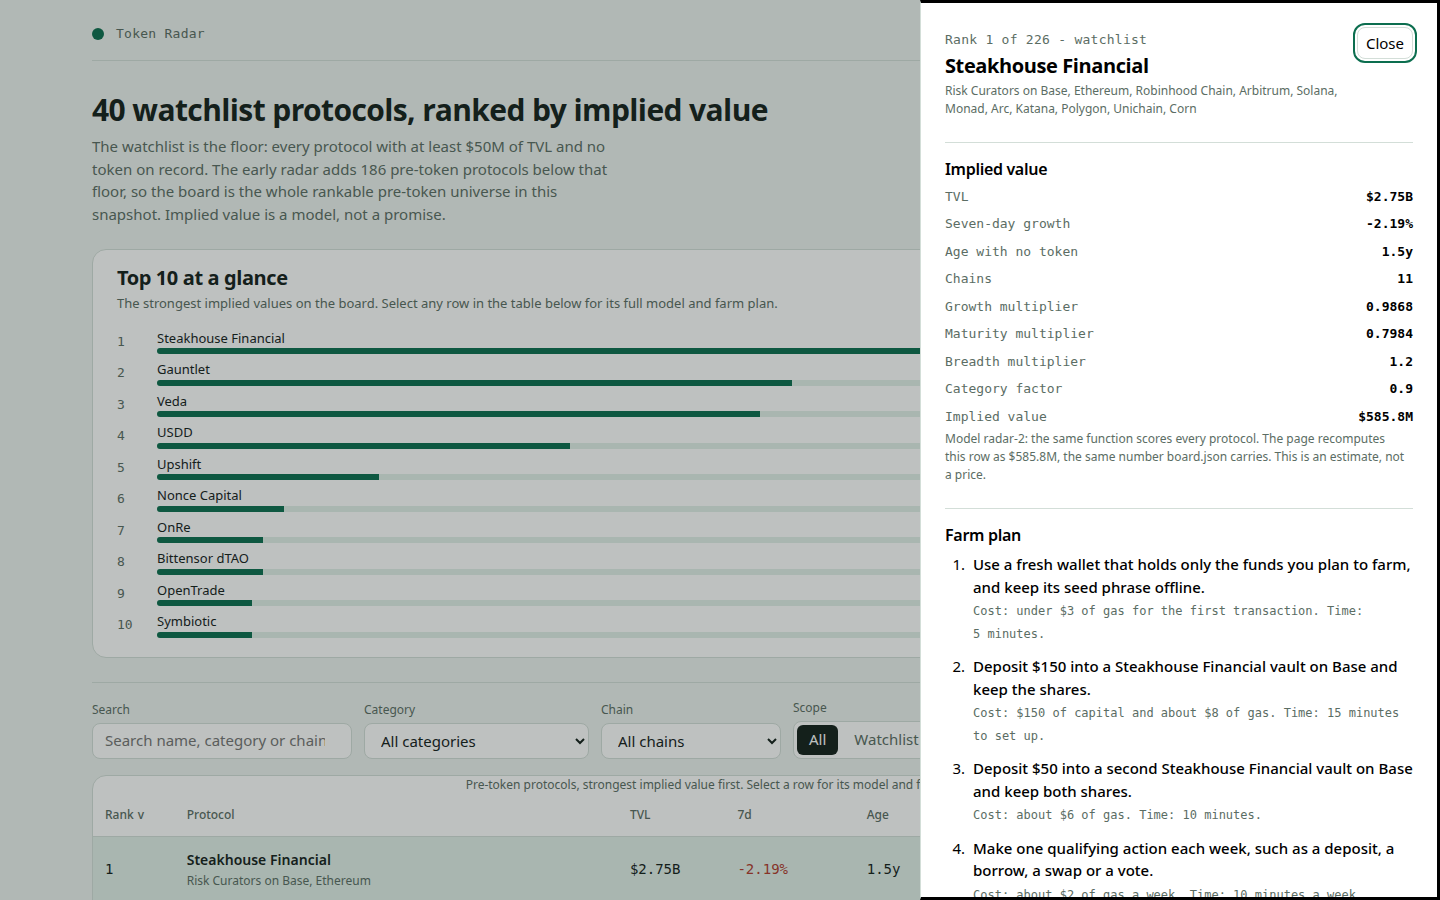
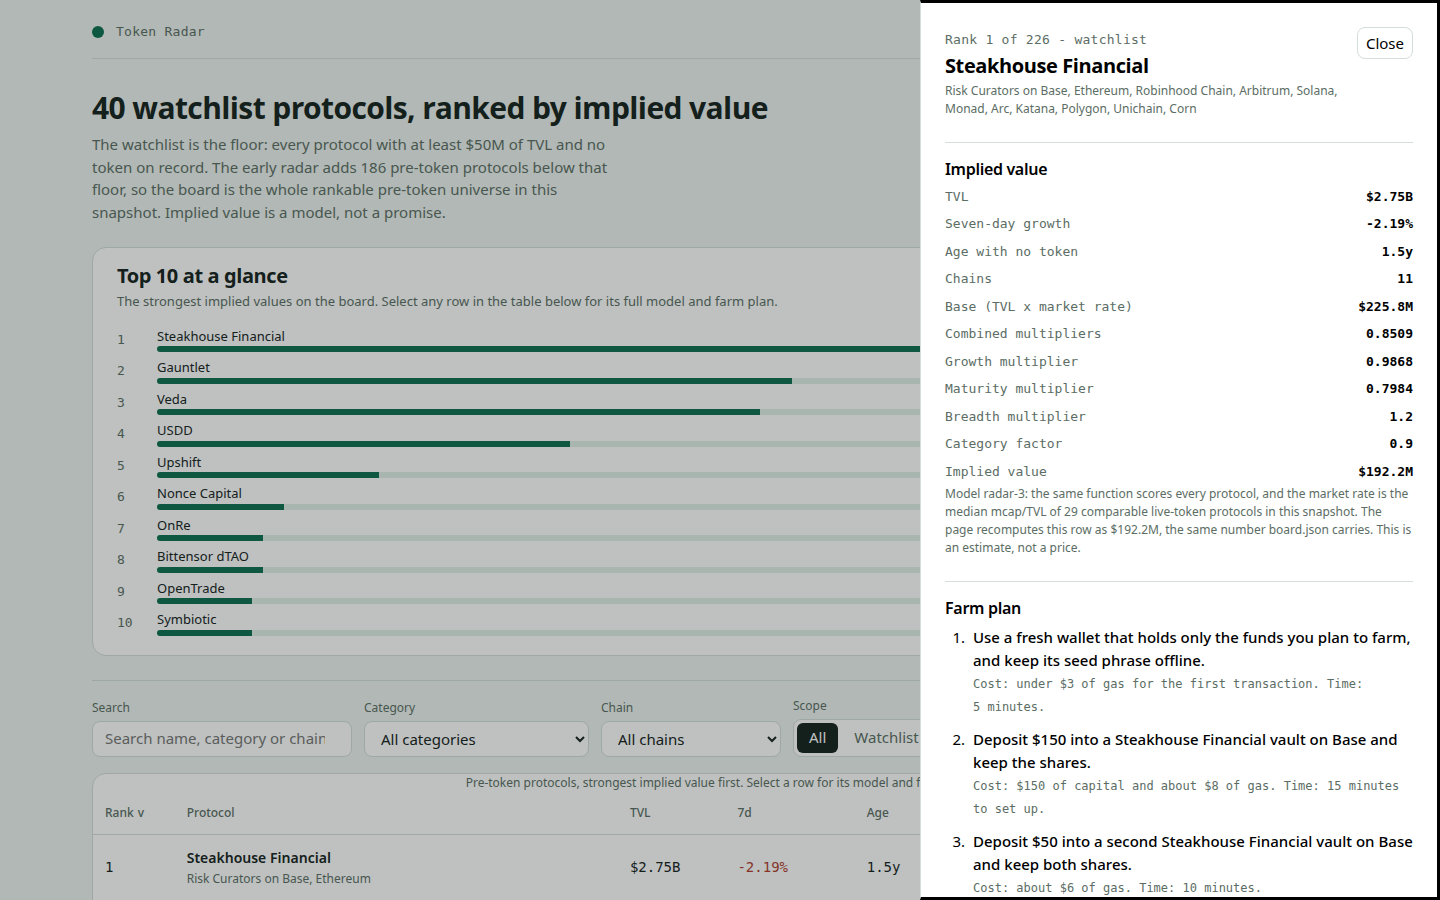
token-radar-01 v2: model radar-3, market-calibrated base multiple
The base multiple is no longer a judgement call: buildRadar calibrates it
at runtime as the median mcap/TVL of the 29 comparable live-token
protocols in the same snapshot (TVL at or above the floor, no exchange,
no versioned pool, no derivative product), 0.082 here. The rate scales
every row alike, so the rank order is unchanged from radar-2; only the
stated values are now priced at the market's own rate. The detail view
gains the base and combined-multiplier rows, and the model panel and
detail text name the calibration. Screenshots re-taken of the new page.

diff --git a/lib/model.ts b/lib/model.ts
@@ -9,7 +9,9 @@
 //
 // Implied value follows only from the snapshot's own figures:
 //
-//   base       = tvl_usd x BASE_MULTIPLE                         (0.25)
+//   base       = tvl_usd x MARKET_RATE, the median mcap/TVL of the
+//                comparable live-token protocols in this same snapshot
+//                (see calibrateBaseMultiple; 0.082 here, 0.25 fallback)
 //   growth     = clamp(change_7d, -50, 100) per cent
 //   growthMult = 1 + (growth / 100) x GROWTH_WEIGHT            (0.60)
 //   maturity   = 0.60 + min(age_days, 1095) / 1095 x 0.40
@@ -25,6 +27,18 @@
 //   days is momentum, clamped so one wild week (the snapshot has a +4,448%
 //   outlier) cannot decide a rank. Age with no token is patience: a protocol
 //   that has run for years with no token has a longer record to price.
+// - The market rate is not a judgement call: it is the median market cap
+//   per dollar of TVL among the live-token protocols in this same snapshot
+//   that sit in the watchlist's size class (TVL at or above the floor) and
+//   would have been rankable had they no token (no exchange, no versioned
+//   pool, no derivative product). In this snapshot 29 such protocols trade
+//   at a median of $0.082 of market cap per $1 of TVL, so a pre-token
+//   protocol of the same size is priced at that rate — the market's own
+//   rate, not launch hype. The median is steady across the exclusion
+//   variants (0.082 whether versioned pools and derivative products are
+//   excluded or not), and no rank depends on the rate: it scales every
+//   row alike, so the ranking is decided by growth, age, breadth and
+//   category alone.
 // - Breadth counts chains: a protocol live on several chains has more
 //   surface than a single-chain one, capped so breadth never dominates.
 // - Category factor is a launch-plausibility discount, read from the
@@ -58,7 +72,9 @@ export interface Snapshot {
   watchlist: string[];
 }
 
-/** The model's constants, as the dashboard states them and the sandbox may change them. */
+/** The model's constants, as the dashboard states them and the sandbox may change them.
+ *  base_multiple is the fallback rate: buildRadar replaces it with the calibrated
+ *  market rate from the snapshot itself (see calibrateBaseMultiple). */
 export interface ModelConstants {
   base_multiple: number;
   growth_weight: number;
@@ -90,15 +106,16 @@ export const MODEL: ModelConstants = {
 };
 
 /** The model's version label: the dashboard names it and the rules quote it. */
-export const MODEL_VERSION = 'radar-2';
+export const MODEL_VERSION = 'radar-3';
 
 /** How many live-token protocols the Live token view carries, by market cap. */
 export const LIVE_ROWS = 24;
 
 /** A one-line summary of the model, for the dashboard and the dossier. */
 export const MODEL_SUMMARY =
-  'implied = round(tvl x 0.25 x growth x maturity x breadth x category), ' +
-  'all from the snapshot: TVL, 7-day change, age, chains, category.';
+  'implied = round(tvl x market-rate x growth x maturity x breadth x category), ' +
+  'the market rate being the median mcap/TVL of comparable live-token protocols ' +
+  'in the same snapshot; all from the snapshot: TVL, 7-day change, age, chains, category.';
 
 /** Categories whose product is a derivative of a token that already trades. */
 const DERIVATIVE_CATEGORIES = new Set([
@@ -220,6 +237,8 @@ export interface RadarData {
   board_size: number;
   early_size: number;
   live_size: number;
+  calibration_n: number;
+  calibration_rate: number;
   rows: RadarRow[];
   live: LiveRow[];
 }
@@ -283,6 +302,37 @@ export function isLiveToken(p: SnapshotProtocol): boolean {
 /** Whether a protocol is one the board may rank: pre-token, not an exchange, not a versioned pool. */
 export function isRankable(p: SnapshotProtocol): boolean {
   return isPreToken(p) && p.category !== 'CEX' && !VERSIONED.test(p.name);
+}
+
+/**
+ * The market rate: the median market cap per dollar of TVL among the live-token
+ * protocols in this same snapshot that sit in the watchlist's size class (TVL at
+ * or above the floor) and would have been rankable had they no token (no exchange,
+ * no versioned pool, no derivative product). The median is robust to the snapshot's
+ * wild ratios (one live protocol trades at 400x its TVL), and it is steady across
+ * the exclusion variants, so the choice of exclusions does not decide the rate.
+ * With no such protocol in the snapshot, the rate falls back to the model's
+ * base_multiple. Returns the rate and the size of the population it came from.
+ */
+export function calibrateBaseMultiple(snapshot: Snapshot, model: ModelConstants = MODEL): { rate: number; n: number } {
+  const ratios = snapshot.protocols
+    .filter(
+      (p) =>
+        isLiveToken(p) &&
+        p.mcap_usd !== null &&
+        p.mcap_usd > 0 &&
+        p.tvl_usd > 0 &&
+        p.tvl_usd >= snapshot.floor_usd &&
+        p.category !== 'CEX' &&
+        !VERSIONED.test(p.name) &&
+        !DERIVATIVE_CATEGORIES.has((p.category ?? '').toLowerCase()),
+    )
+    .map((p) => p.mcap_usd! / p.tvl_usd)
+    .sort((a, b) => a - b);
+  if (ratios.length === 0) return { rate: model.base_multiple, n: 0 };
+  const mid = Math.floor(ratios.length / 2);
+  const median = ratios.length % 2 === 1 ? ratios[mid]! : (ratios[mid - 1]! + ratios[mid]!) / 2;
+  return { rate: median, n: ratios.length };
 }
 
 /** The snapshot's protocol by slug. */
@@ -499,9 +549,13 @@ export function radarRow(row: BoardRow, watchlist: Set<string>): RadarRow {
   };
 }
 
-/** Everything the dashboard renders, from the snapshot. */
+/** Everything the dashboard renders, from the snapshot. The base multiple is calibrated
+ *  from the snapshot itself (see calibrateBaseMultiple), so the model object the dashboard
+ *  carries already holds the calibrated rate and the page recomputes every row with it. */
 export function buildRadar(snapshot: Snapshot, model: ModelConstants = MODEL): { board: BoardRow[]; radar: RadarData } {
-  const board = buildBoard(snapshot, model);
+  const calibration = calibrateBaseMultiple(snapshot, model);
+  const calibrated: ModelConstants = { ...model, base_multiple: calibration.rate };
+  const board = buildBoard(snapshot, calibrated);
   const live = liveRows(snapshot);
   const watchSet = new Set(snapshot.watchlist);
   const early = board.filter((r) => !watchSet.has(r.slug)).length;
@@ -509,13 +563,15 @@ export function buildRadar(snapshot: Snapshot, model: ModelConstants = MODEL): {
     as_of: snapshot.as_of,
     source: snapshot.source,
     floor_usd: snapshot.floor_usd,
-    model,
+    model: calibrated,
     model_version: MODEL_VERSION,
     watchlist_size: snapshot.watchlist.length,
     watchlist: [...snapshot.watchlist],
     board_size: board.length,
     early_size: early,
     live_size: live.length,
+    calibration_n: calibration.n,
+    calibration_rate: calibration.rate,
     rows: board.map((r) => radarRow(r, watchSet)),
     live,
   };

diff --git a/dashboard/app.js b/dashboard/app.js
@@ -41,9 +41,11 @@
   // The model in one function: the page recomputes a row from the snapshot
   // figures and checks the number board.json carries, so the page's code and
   // the board's data are visibly the same arithmetic. This must match
-  // lib/model.ts exactly: base 0.25, growth clamped -50..100 at weight 0.6,
-  // maturity 0.6 + min(age, 1095) / 1095 x 0.4, breadth 1 + 0.04 per extra
-  // chain (capped at 5), category 0.6 derivative / 0.9 curator / 1.0 other.
+  // lib/model.ts exactly: base TVL x the market rate (the median mcap/TVL
+  // of the comparable live-token protocols, carried in DATA.model as
+  // base_multiple), growth clamped -50..100 at weight 0.6, maturity 0.6 +
+  // min(age, 1095) / 1095 x 0.4, breadth 1 + 0.04 per extra chain (capped
+  // at 5), category 0.6 derivative / 0.9 curator / 1.0 other.
   const DERIVATIVE = ['bridge', 'canonical bridge', 'cross chain bridge', 'liquid staking', 'liquid restaking', 'restaked btc', 'staking pool', 'stablecoin wrapper'];
   const categoryFactor = (category) => {
     const c = (category || '').toLowerCase();
@@ -368,7 +370,7 @@
       el('div', { class: 'formula' },
         `implied = round( tvl_usd x ${m.base_multiple} x (1 + clamp(change_7d, ${m.growth_floor}, ${m.growth_cap}) / 100 x ${m.growth_weight}) x (${m.maturity_floor} + min(age_days, ${m.maturity_days}) / ${m.maturity_days} x ${m.maturity_range}) x breadth x category )`,
       ),
-      el('p', { class: 'sub', text: `TVL and seven-day growth come from the snapshot. Age is the time since the protocol was first listed, the best record of how long it has run with no token; an unlisted age uses ${m.unknown_age_days} days. Breadth is 1 + ${m.breadth_step} per extra chain, capped at ${m.breadth_max_extra_chains} extra chains. Category is ${m.category_derivative} for bridges, liquid-staking and other derivative products, ${m.category_curator} for curators and allocators, and 1.00 otherwise. The early radar is every rankable pre-token protocol below the watchlist floor, and the live-token protocols are set aside with their market caps shown.` }),
+      el('p', { class: 'sub', text: `The market rate is the median market cap per dollar of TVL among ${DATA.calibration_n} live-token protocols in this same snapshot that sit in the watchlist's size class and would have been rankable had they no token: ${m.base_multiple.toFixed(3)} here, so a pre-token protocol is priced at the rate the market already pays, not at launch hype. TVL and seven-day growth come from the snapshot. Age is the time since the protocol was first listed, the best record of how long it has run with no token; an unlisted age uses ${m.unknown_age_days} days. Breadth is 1 + ${m.breadth_step} per extra chain, capped at ${m.breadth_max_extra_chains} extra chains. Category is ${m.category_derivative} for bridges, liquid-staking and other derivative products, ${m.category_curator} for curators and allocators, and 1.00 otherwise. The early radar is every rankable pre-token protocol below the watchlist floor, and the live-token protocols are set aside with their market caps shown.` }),
     );
   };
 
@@ -399,13 +401,15 @@
         el('div', null, el('span', { text: 'Seven-day growth' }), el('b', { class: 'num', text: fmtPct(row.change_7d) })),
         el('div', null, el('span', { text: 'Age with no token' }), el('b', { class: 'num', text: fmtAge(row.age_days) })),
         el('div', null, el('span', { text: 'Chains' }), el('b', { class: 'num', text: String((row.chains || []).length) })),
+        el('div', null, el('span', { text: 'Base (TVL x market rate)' }), el('b', { class: 'num', text: fmtUsd(Math.round(row.tvl_usd * DATA.model.base_multiple)) })),
+        el('div', null, el('span', { text: 'Combined multipliers' }), el('b', { class: 'num', text: (row.growth_multiplier * row.maturity_multiplier * row.breadth_multiplier * row.category_factor).toFixed(4) })),
         el('div', null, el('span', { text: 'Growth multiplier' }), el('b', { class: 'num', text: String(row.growth_multiplier) })),
         el('div', null, el('span', { text: 'Maturity multiplier' }), el('b', { class: 'num', text: String(row.maturity_multiplier) })),
         el('div', null, el('span', { text: 'Breadth multiplier' }), el('b', { class: 'num', text: String(row.breadth_multiplier) })),
         el('div', null, el('span', { text: 'Category factor' }), el('b', { class: 'num', text: String(row.category_factor) })),
         el('div', null, el('span', { text: 'Implied value' }), el('b', { class: 'num', text: fmtUsd(row.implied_value_usd) })),
       ),
-      el('p', { class: 'sub', text: `Model ${DATA.model_version}: the same function scores every protocol. The page recomputes this row as ${fmtUsd(recomputed)}${matches ? ', the same number board.json carries.' : ', which differs from the board: the data would be stale.'} This is an estimate, not a price.` }),
+      el('p', { class: 'sub', text: `Model ${DATA.model_version}: the same function scores every protocol, and the market rate is the median mcap/TVL of ${DATA.calibration_n} comparable live-token protocols in this snapshot. The page recomputes this row as ${fmtUsd(recomputed)}${matches ? ', the same number board.json carries.' : ', which differs from the board: the data would be stale.'} This is an estimate, not a price.` }),
     ));
     dialog.appendChild(el('section', { class: 'detail-section' },
       el('h3', { text: 'Farm plan' }),

diff --git a/README.md b/README.md
@@ -4,7 +4,7 @@
 [![rank](https://make.fun/badge/token-radar-01/Krwanz/token-radar-01/rank.svg)](https://make.fun/bounty/token-radar-01/leaderboard?utm_source=github&utm_medium=readme&utm_campaign=token-radar-01)
 [![reward](https://make.fun/badge/token-radar-01/Krwanz/token-radar-01/reward.svg)](https://make.fun/bounty/token-radar-01?utm_source=github&utm_medium=readme&utm_campaign=token-radar-01)
 
-Token Radar — model radar-2: a ranked board of pre-token protocols by implied launch value, with a farm plan for each.
+Token Radar — model radar-3: a ranked board of pre-token protocols by implied launch value, with a farm plan for each.
 
 Entry for make.fun `token-radar-01`: build the best token launch radar.
 $1,325 total, 1st place $1,000. Deadline 2026-12-14T10:00:00Z.
@@ -20,16 +20,24 @@ $1,325 total, 1st place $1,000. Deadline 2026-12-14T10:00:00Z.
 - `screenshots/` — board, detail, filtered views
 - `dossier.json` — built with the vendored `vendor/makefun-board.ts`
 
-## Model (radar-2)
+## Model (radar-3)
 
 ```
-implied = round( TVL x 0.25
+implied = round( TVL x market-rate
   x (1 + clamp(change_7d, -50, 100) / 100 x 0.60)
   x (0.60 + min(age_days, 1095) / 1095 x 0.40)
   x (1 + 0.04 per extra chain, capped at 5)
   x category_factor )
 ```
 
+- The market rate is the median market cap per dollar of TVL among the
+  comparable live-token protocols in this same snapshot: TVL at or above
+  the $50M floor, no exchange, no versioned pool, no derivative product.
+  In this snapshot 29 such protocols trade at a median of $0.082 of market
+  cap per $1 of TVL, so a pre-token protocol of the same size is priced at
+  the rate the market already pays, not at launch hype. The rate scales
+  every row alike, so no rank depends on it; the ranking is decided by
+  growth, age, breadth and category alone.
 - `category_factor` is 0.60 for bridges, liquid-staking and other derivative
   products (a token of a token that already trades), 0.90 for curators and
   allocators, 1.00 otherwise. It is read from the snapshot's `category`
